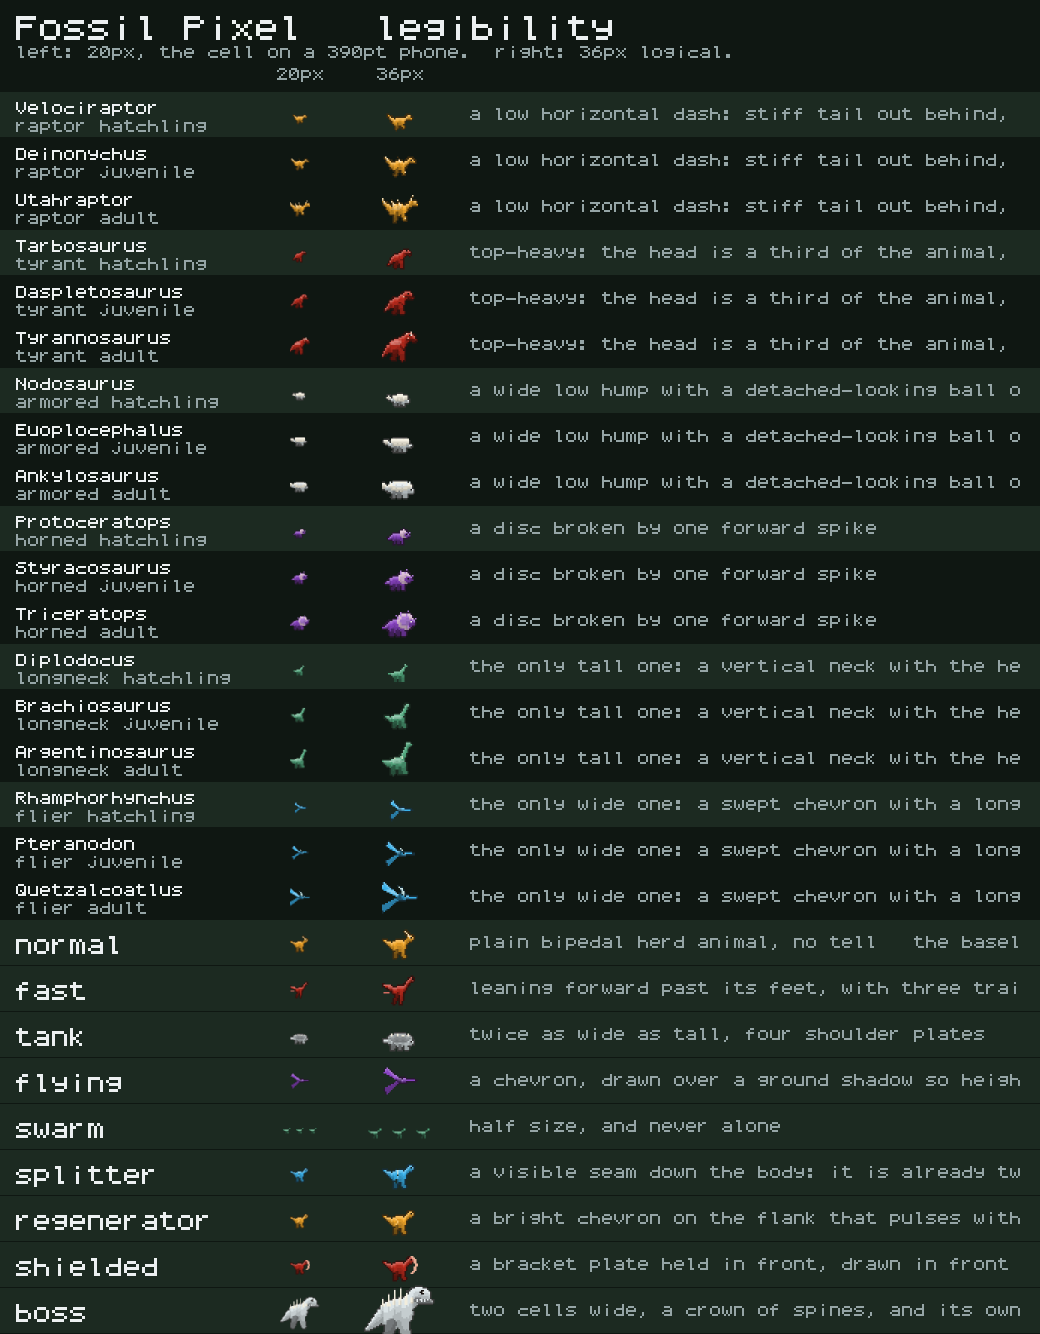
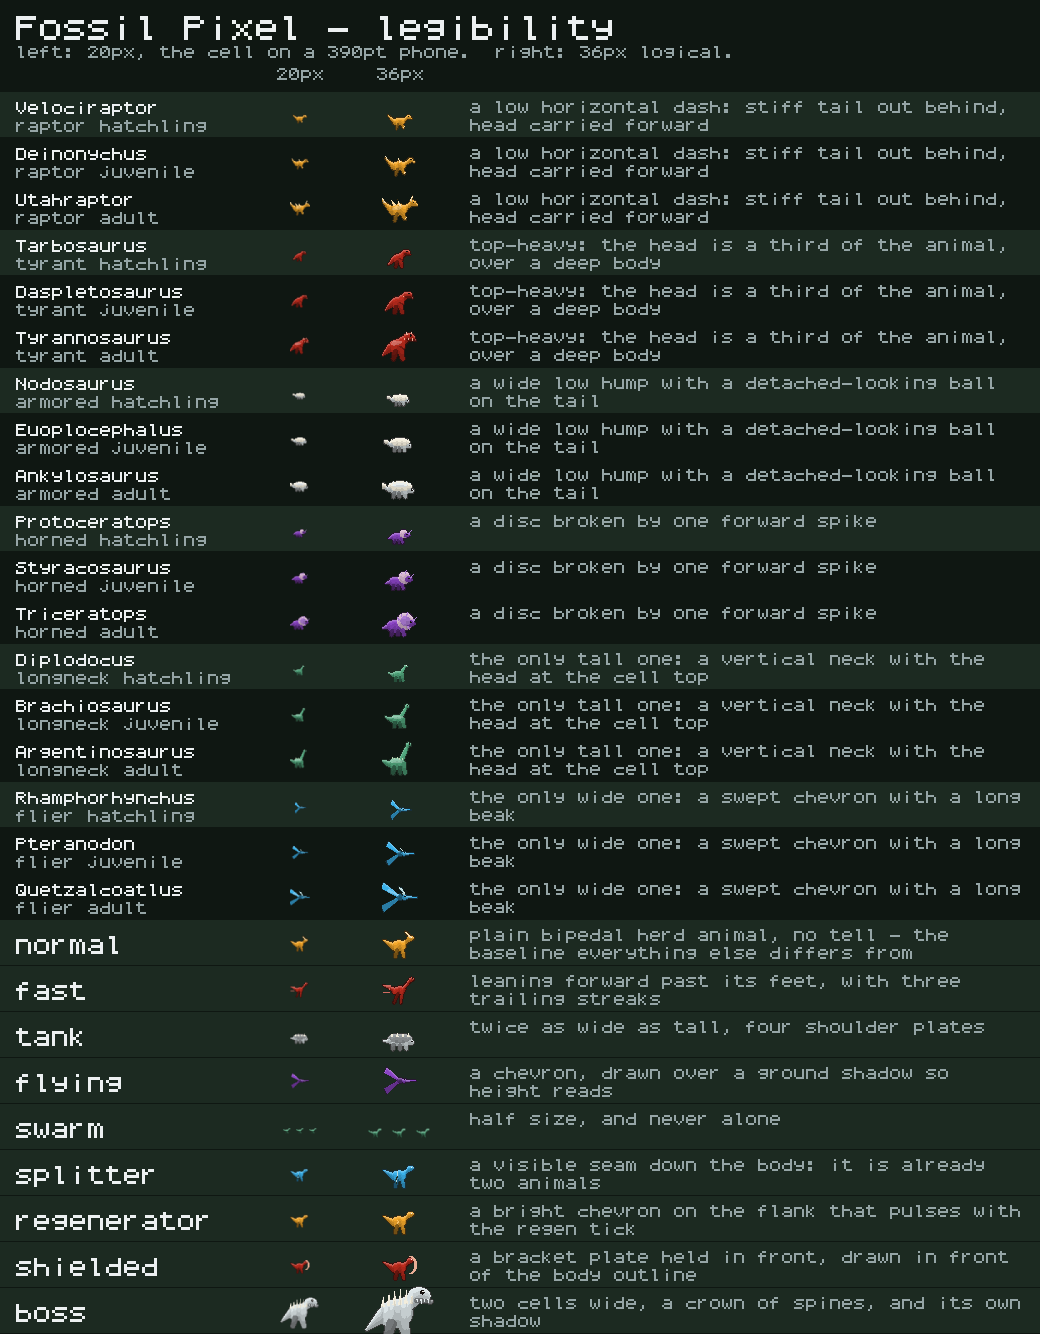
art: wrap the legibility notes instead of cutting them at 46 characters
The note column is what tells a reviewer what to look for in the sprite
beside it, and every note longer than the column was being truncated
mid-clause -- "a swept chevron with a long" is not a description of
anything. Wrap on word boundaries to the two lines the row already has
room for, and fold the punctuation the 5x7 font does not carry onto
something it does, so an em-dash is a dash and not a hole.

diff --git a/tools/art/build.ts b/tools/art/build.ts
@@ -94,6 +94,30 @@ const PHONE_H = Math.round(CANVAS_H * SCALE);
  * brief asks; the right column is there so a reviewer can see what detail
  * was in the sprite that failed to survive.
  */
+/**
+ * Break a note into lines that fit `cols` characters without splitting a
+ * word. The 5x7 font is fixed-pitch, so a character count is a width; the
+ * notes are the one place on this sheet where a reviewer is reading prose
+ * rather than looking at a sprite, and a sentence cut off mid-clause is
+ * worse than no sentence at all.
+ */
+function wrap(s: string, cols: number, maxLines: number): string[] {
+  const lines: string[] = [];
+  let line = "";
+  for (const word of s.split(" ")) {
+    const next = line ? `${line} ${word}` : word;
+    if (next.length <= cols) {
+      line = next;
+      continue;
+    }
+    lines.push(line);
+    line = word;
+    if (lines.length === maxLines) break;
+  }
+  if (line && lines.length < maxLines) lines.push(line);
+  return lines.slice(0, maxLines);
+}
+
 function legibilitySheet(d: Direction): Raster {
   const small = Math.round(CELL_PX * SCALE); // 20px: the real cell on a 390pt phone
   const big = CELL_PX;
@@ -102,6 +126,9 @@ function legibilitySheet(d: Direction): Raster {
   const colSmall = 300;
   const colBig = 400;
   const noteX = 470;
+  // The 5x7 font at TYPE.label advances 12px per character, so the note
+  // column holds 46 characters per line and the row holds two of them.
+  const noteCols = Math.floor((1040 - noteX - 16) / 12);
   const rows = KINDS.length * 3 + ARCHETYPES.length;
   const r = new Raster(1040, rows * rowH + 92);
   r.clear(BOARD.hud, 1);
@@ -121,7 +148,7 @@ function legibilitySheet(d: Direction): Raster {
       drawText(r, labelX, y + 28, `${kind} ${["", "hatchling", "juvenile", "adult"][stage]}`, TYPE.label, BOARD.textDim);
       r.blit(resample(sprite, small, small), colSmall - small / 2, y + (rowH - small) / 2);
       r.blit(resample(sprite, big, big), colBig - big / 2, y + (rowH - big) / 2);
-      drawText(r, noteX, y + 16, KIND_SILHOUETTE_NOTE[kind].slice(0, 46), TYPE.label, BOARD.textDim);
+      wrap(KIND_SILHOUETTE_NOTE[kind], noteCols, 2).forEach((line, i) => drawText(r, noteX, y + 9 + i * 18, line, TYPE.label, BOARD.textDim));
       y += rowH;
     }
   }
@@ -142,7 +169,7 @@ function legibilitySheet(d: Direction): Raster {
       r.blit(resample(sprite, sm, sm), colSmall - sm / 2, y + (rowH - sm) / 2);
       r.blit(resample(sprite, bg, bg), colBig - bg / 2, y + (rowH - bg) / 2);
     }
-    drawText(r, noteX, y + 16, ARCHETYPE_TELL[a].slice(0, 46), TYPE.label, BOARD.textDim);
+    wrap(ARCHETYPE_TELL[a], noteCols, 2).forEach((line, i) => drawText(r, noteX, y + 9 + i * 18, line, TYPE.label, BOARD.textDim));
     y += rowH;
   }
   return r;

diff --git a/tools/art/font.ts b/tools/art/font.ts
@@ -97,8 +97,16 @@ export const GLYPH_H = 7;
 export const CAP_H = 5;
 
 /** Columns of ink for one character, or null for an unmapped one. */
+/**
+ * Punctuation this 5x7 font does not carry, folded onto something it does.
+ * Without this an em-dash renders as a hole in a sentence, which reads as a
+ * bug in the mock rather than as a missing glyph.
+ */
+const FOLD: Record<string, string> = { "—": "-", "–": "-", "’": "'", "“": '"', "”": '"' };
+
 export function glyph(ch: string): boolean[][] | null {
-  const spec = GLYPHS[ch] ?? GLYPHS[ch.toUpperCase()];
+  const c = FOLD[ch] ?? ch;
+  const spec = GLYPHS[c] ?? GLYPHS[c.toUpperCase()];
   if (!spec) return null;
   return spec.split("/").map((row) => row.split("").map((c) => c === "1"));
 }
